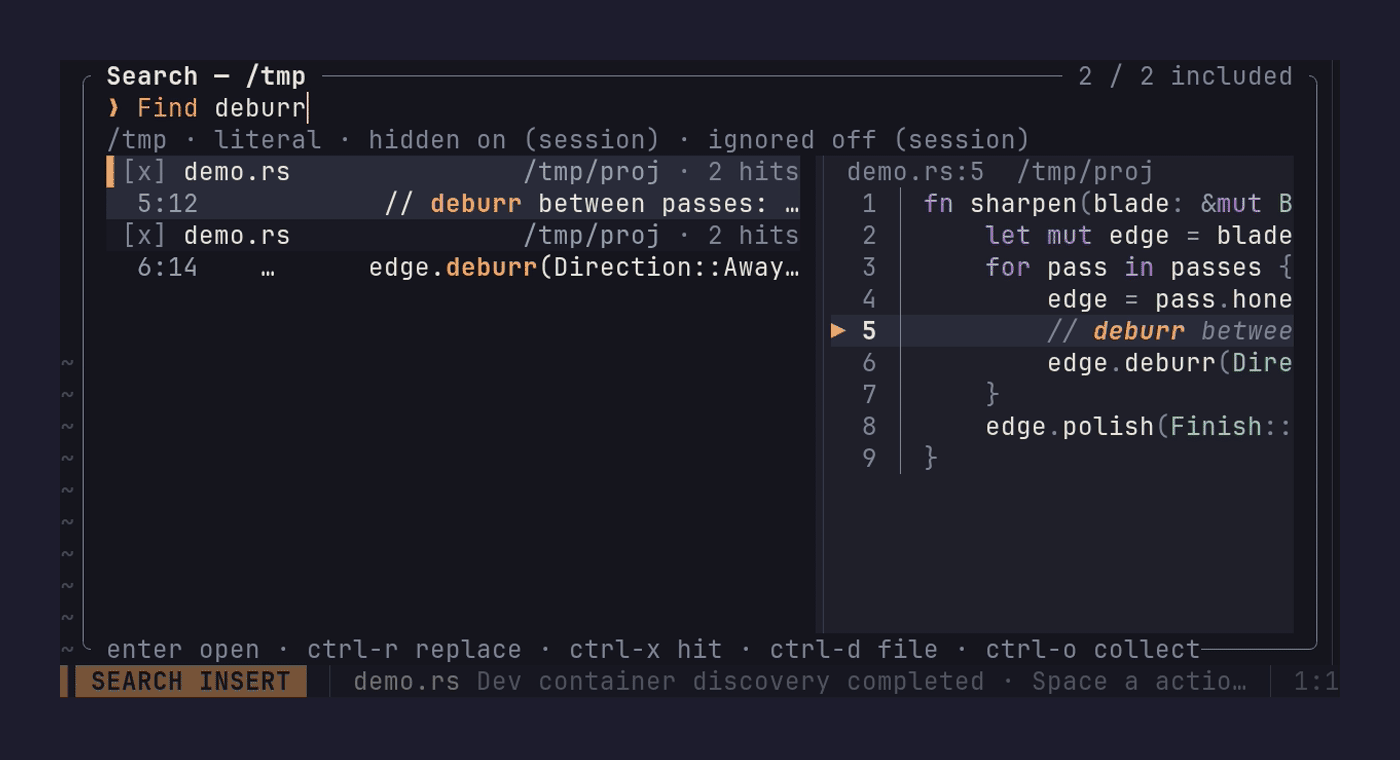
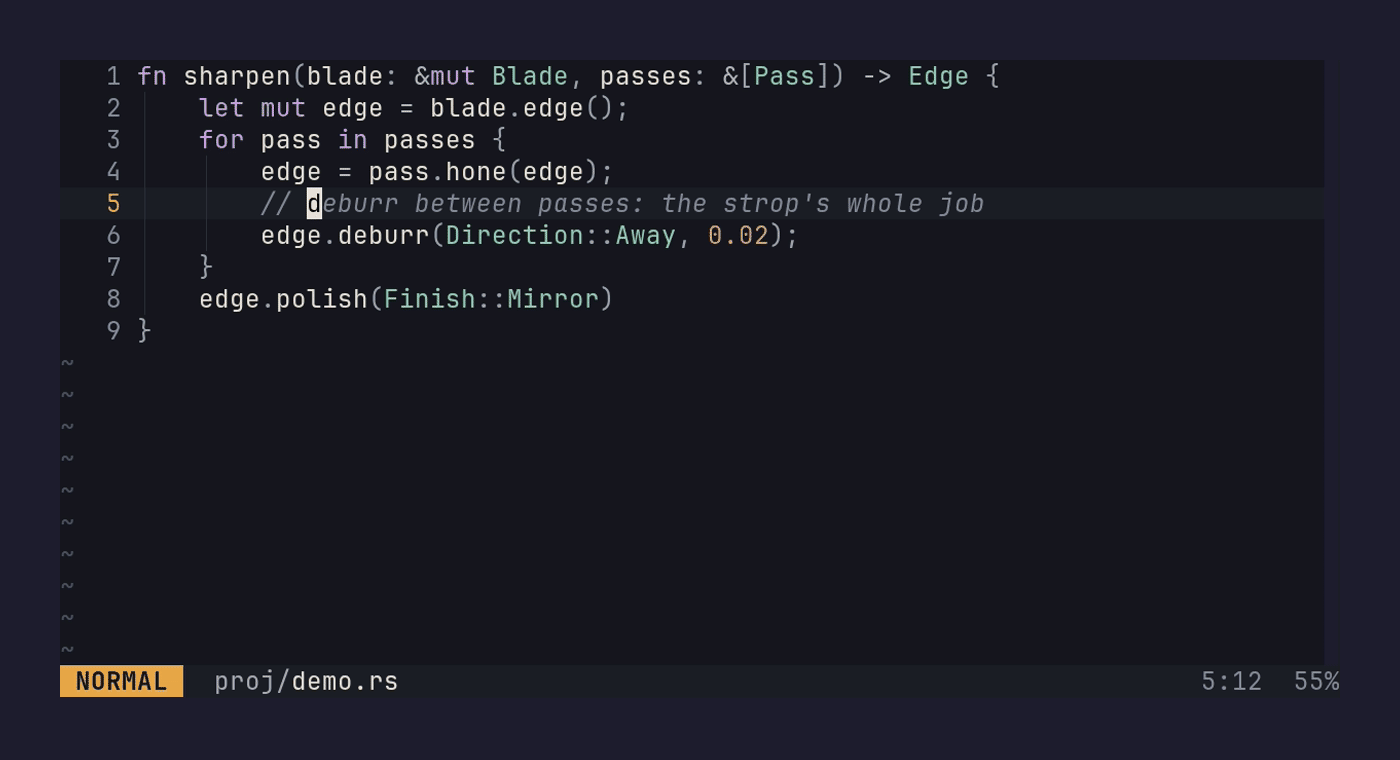
Refresh the demo poster from the 0.54 recording

diff --git a/index.html b/index.html
@@ -163,7 +163,7 @@ Space g  l log · h history · b blame gutter · y/o permalink · u/s/p hunk</co
   </div>
   <details class="tour">
     <summary>
-      <img src="img/demo-poster.png" width="1400" height="760" alt="A still from the strop recording: the search picker open over a Rust file, two hits for 'deburr' listed beside a preview of the file." loading="lazy">
+      <img src="img/demo-poster.png" width="1400" height="760" alt="A still from the strop 0.54 recording in the Hone palette: a nine-line Rust function, the cursor on a comment on line 5, the statusline reading NORMAL, proj/demo.rs, 5:12." loading="lazy">
       <span class="play">▶ Play the recording · GIF, 7.5 MB</span>
     </summary>
     <img class="recording" src="img/demo.gif" width="1400" height="760" alt="The strop demo: operator-pending preview, the files and search pickers, and git hunks, recorded in a terminal." loading="lazy">
